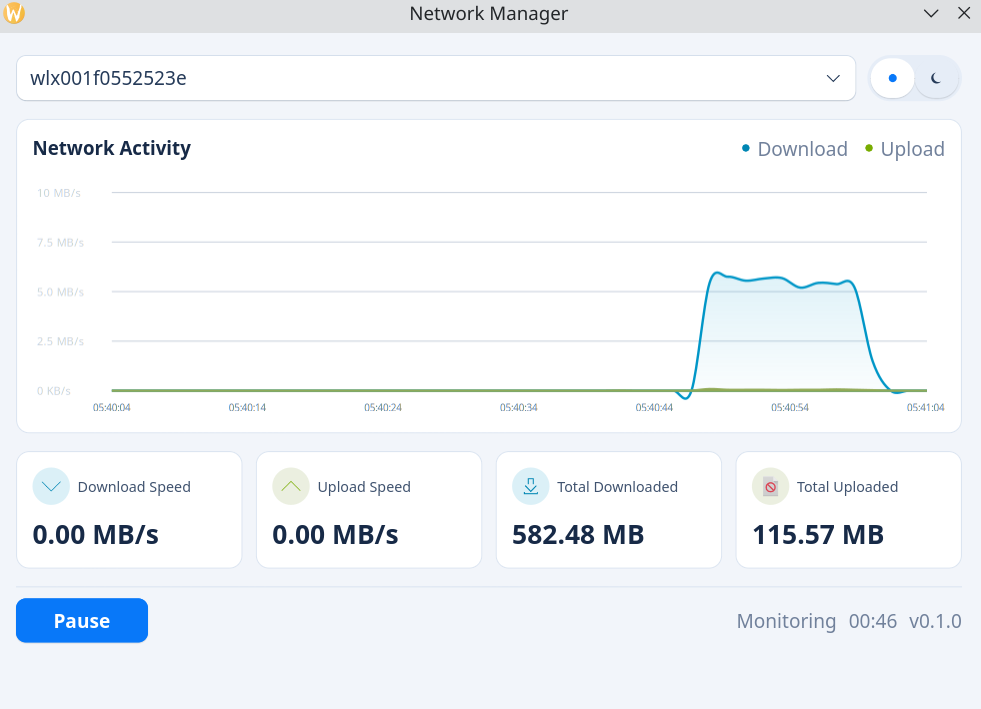
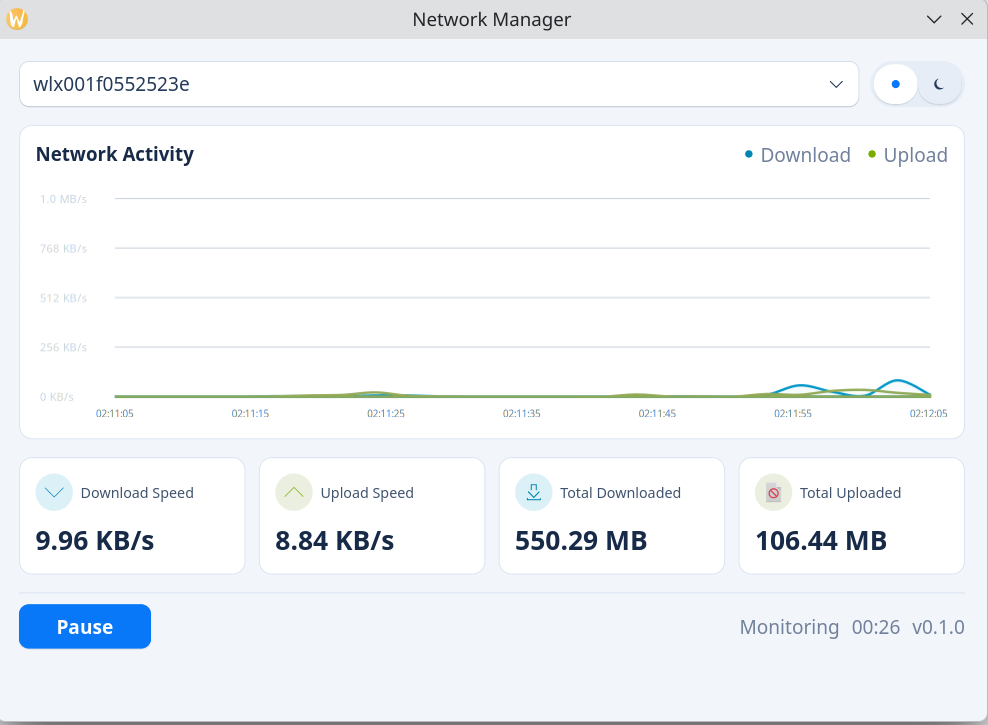
update docs, image, build

diff --git a/src/network.rs b/src/network.rs
@@ -10,8 +10,8 @@ pub fn get_interface() -> Vec<String> {
     networks.iter().map(|(name, _)| name.to_string()).collect()
 }
 
-fn check_speed(n:u64)->String{
-        let units = ["B", "KB", "MB", "GB", "TB"];
+fn check_speed(n: u64) -> String {
+    let units = ["B", "KB", "MB", "GB", "TB"];
     let mut size = n as f64;
     let mut i = 0;
 
@@ -25,7 +25,6 @@ fn check_speed(n:u64)->String{
     } else {
         format!("{size:.2} {}", units[i])
     }
- 
 }
 pub fn network(networks: &mut Networks) -> BTreeMap<String, BTreeMap<String, String>> {
     // BTreeMap keeps interface names and statistic keys in sorted order.
@@ -39,10 +38,8 @@ pub fn network(networks: &mut Networks) -> BTreeMap<String, BTreeMap<String, Str
         let download = data.received();
         let upload = data.transmitted();
 
-
         // let download_mb = download as f64 / 1_000_000.0;
         // let upload_mb = upload as f64 / 1_000_000.0;
-
 
         // Download size live.
         interface.insert("DS".to_string(), check_speed(download));

diff --git a/src/ui.rs b/src/ui.rs
@@ -1011,18 +1011,9 @@ mod tests {
     fn speed_units_are_converted_for_the_graph() {
         assert_eq!(parse_speed_mb("512 B"), Some(512.0 / 1024.0_f64.powi(2)));
         assert_eq!(parse_speed_mb("1.00 KB"), Some(1.0 / 1024.0));
-        assert_eq!(
-            parse_speed_mb("1.00 MB"),
-            Some(1.0)
-        );
-        assert_eq!(
-            parse_speed_mb("1.00 GB"),
-            Some(1024.0)
-        );
-        assert_eq!(
-            parse_speed_mb("1.00 TB"),
-            Some(1024.0_f64.powi(2))
-        );
+        assert_eq!(parse_speed_mb("1.00 MB"), Some(1.0));
+        assert_eq!(parse_speed_mb("1.00 GB"), Some(1024.0));
+        assert_eq!(parse_speed_mb("1.00 TB"), Some(1024.0_f64.powi(2)));
         assert_eq!(parse_speed_mb("invalid"), None);
     }
 }

diff --git a/README-fa.md b/README-fa.md
@@ -65,8 +65,6 @@ cargo run
 cargo build --release
 ```
 
-<p dir="rtl" align="right">فایل اجرایی ساختهشده در مسیر <code dir="ltr">target/release/my-gtk-app</code> قرار میگیرد.</p>
-
 <h2 dir="rtl" align="right">ساختار پروژه</h2>
 
 <ul dir="rtl" align="right">

diff --git a/README.md b/README.md
@@ -57,8 +57,6 @@ To build an optimized executable:
 cargo build --release
 ```
 
-The resulting binary is at `target/release/my-gtk-app`.
-
 ## Project layout
 
 - `src/main.rs` starts the tray icon and GTK application.
